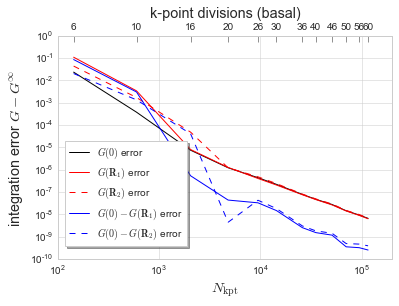
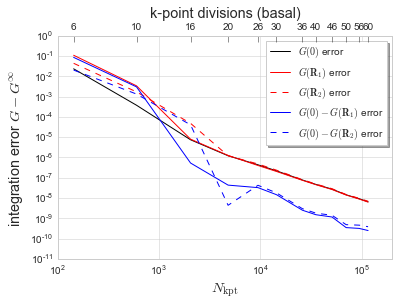
rebuilt docs

Changed region(s): [[0.0602, 0.1176, 0.9925, 0.8235], [0.0602, 0.8235, 0.1504, 0.8529], [0.0902, 0.1765, 0.1203, 0.2059]]

diff --git a/searchindex.js b/searchindex.js
@@ -1,1 +1,1 @@
-Search.setIndex({envversion:50,filenames:["examples/Fe-C","examples/GF-convergence","examples/LargeOmega2","index","notebooks"],objects:{},objnames:{},objtypes:{},terms:{"00000000e":2,"00239975e":2,"0714a":0,"0722a":0,"10x10x10":1,"10x10x6":1,"1200k":0,"12f":1,"14x14x14":1,"16e":2,"16x16x8":1,"18836296e":2,"18x18x18":1,"1e13":2,"1e17":2,"1e2":1,"1e3":0,"1e33":2,"1e8":2,"1e9":0,"20x20x12":1,"2202a":0,"22x22x22":1,"26x26x14":1,"26x26x26":1,"2757a":0,"2e5":1,"2v12":0,"2v44":0,"300k":0,"30x30x16":1,"30x30x30":1,"33910566e":2,"34x34x34":1,"3588e":0,"3681a":0,"36x36x20":1,"3v11":0,"40x40x22":1,"44186728e":2,"46x46x24":1,"50x50x28":1,"56x56x30":1,"57142857e":2,"60x60x32":1,"62729380e":2,"69665300e":2,"69817973e":2,"6x6x4":1,"6x6x6":1,"71428571e":2,"74647887e":2,"76223776e":2,"77777778e":2,"79249287e":2,"80068729e":2,"80341880e":2,"81196581e":2,"81332535e":2,"81383433e":2,"8145141885543301e":2,"8145141885543312e":2,"8145141885543323e":2,"81451419e":2,"81654377e":2,"81874935e":2,"83234718e":2,"86830524e":2,"break":[0,1,2],"function":[],"import":[0,1,2],"new":0,"switch":2,"true":[0,1,2],"while":0,about:0,abov:0,accur:2,acta:0,actamat:0,activ:0,activat:0,add:0,addbasi:0,adjac:[0,1,2],all:[0,2],almost:2,along:0,alpha:1,also:0,altern:2,alwai:2,ansi:[0,1,2],append:[0,1,2],approxim:1,argument:2,arrai:[0,1,2],assembl:0,atom:[0,2],attempt:0,automat:2,averag:[0,1],ax1:[0,1,2],ax2:[0,1,2],axi:[0,1],barrier:0,basal:1,base:0,basi:[0,1,2],bbox_to_anchor:[0,1,2],bcc:0,becaus:2,becom:2,becquart:0,begin:[0,1,2],behavior:1,below:4,beta:0,between:[0,1],big:2,bodi:0,boltzmann:0,bottom:2,c11:0,c12:0,c44:0,calcderiv:0,calcul:0,can:[0,2],carbon:0,cell:[0,1,2],center:0,chang:0,check:[1,2],chem:0,chemistri:1,clip_on:2,closest:0,clouet:0,cm2:0,code:0,coeffici:[3,4],color:2,commandchar:[0,1,2],comment:[0,1,2],compon:0,compress:0,comput:[0,3],concaten:2,configur:2,consider:1,constant:0,construct:0,content:3,contribut:2,contributor:3,control:1,converg:[],convert:0,coordin:[0,2],correl:[2,3,4],correl_list:2,correspond:0,creat:[0,1,2],crystal:[0,1,2,3],crystalstar:3,cubic:0,cutoff:0,d11_t:0,d11neg:0,d11po:0,data:[0,1],dbeta:0,dconv:0,ddlist:0,denom:1,denser:1,densiti:1,depend:2,determin:0,diag:0,diagon:2,dict:2,dictionari:2,diff:1,differ:[1,2],dipnam:0,dipol:0,dipoledict:0,dipolet:0,direct:[0,1],distanc:0,divis:1,dlist:0,document:3,doi:0,domain:0,don:2,dot:0,eact:0,eam:0,either:0,elastic:0,electron:0,elif:0,els:[0,2],empir:1,end:[0,1,2],energi:0,enes:2,enesv:2,enet0:2,enet1:2,enet2:2,enet:0,enev:2,entir:2,error:[1,2],etran:0,evalu:2,exactli:2,exampl:[2,4],extend:[0,1,2],extract:1,fail:2,failur:2,fals:[0,1,2],fcc:[1,2],fccdata:1,fccjn:1,fccr:1,fccsite:1,fec:0,fecdiffus:0,fecthermodict:0,fig:[0,1],fill:2,find:0,first:[0,1,2],fit:1,fontsiz:[0,1,2],forc:[0,1,2],format:[0,1,2],frameon:[0,1,2],frequenc:0,from:[0,1,2,4],g0val:1,g10:1,garnet:[3,4],gdata:1,gener:[0,1],get:0,get_xlim:[0,1],gfcalc:[1,3],gfcrystalcalc:1,gferror:1,gffcc:1,gfhcp:1,ginf:1,ginflist:1,gpa:0,gplot:1,gr1:1,gr1val:1,gr2:1,gr2val:1,green:[],grid:[0,1],grval:1,gval:1,have:0,hcp:1,hcpdata:1,hcpjn:1,hcpr1:1,hcpr2:1,hcpsite:1,how:2,identifi:0,includ:0,increas:[0,1],index:[0,3],indic:0,inf:2,infinit:1,infti:1,inlin:[0,1,2],input:4,integr:1,interact:1,interestingli:0,interstiti:[0,3],introduc:2,invlatt:0,isclos:0,isotrop:0,item:[0,2],iter:1,jump:[0,2],jumpnetwork:[0,1,2],jupyt:4,just:2,keep:2,kei:1,kpt:1,kptgrid:1,kwarg:2,label:[0,1,2],labelright:2,larg:0,large_om2:2,largeomega2:2,largest:1,lattic:[0,1,2],left:2,legend:[0,1,2],len:0,length:[0,1],lie:0,lij:2,limit:2,line:[0,1,2],linear:0,linspac:[0,2],list:0,log:[0,1,2],look:[0,1],loop:2,lss:2,lsv:2,make:2,maketracerpreen:2,match:[0,1,2],mater:0,mathbf:1,mathrm:1,matplotlib:[0,1,2],maximum:1,mediat:3,medium:1,mesh:1,modul:3,multipli:0,n10:1,name:0,nan:2,ncol:[0,1,2],neact:0,necessari:2,need:[0,1,2],neg:0,neighbor:[1,2],never:2,next:[0,2],nk53:1,nkpt:1,nmax:1,non:0,note:0,notebook:[],now:[0,2],nreduc:1,nthermo:2,num:2,numer:1,numpi:[0,1,2],nv_xxxx:0,nv_xxyi:0,nv_xyxi:0,obtain:0,octahedr:0,off:2,om2:2,om2_list:2,om2pow:2,omega0:2,omega1:2,omega2:2,omega:2,onli:[0,2],onsag:[0,1,2,4],onsagercalc:[0,2,3],originalverbatim:[0,1,2],our:[0,1,2],out:[0,2],output:[0,4],over:[0,2],page:3,para:0,paraindex:0,parallel:0,paramet:1,particular:1,pass:2,path:[0,1,2],pdf:[0,1,2],perez:0,perp:0,perpendicular:0,phase:0,physical_const:0,piec:0,plane:0,plot:[0,1,2],plt:[0,1,2],pmax:1,pmaxerror:1,pname:0,poct:0,poctpara:0,poctperp:0,point:[0,1],posit:0,potenti:0,powerexpans:3,ppara:0,pperp:0,pre:0,preene2betafre:2,prefactor:[0,1],pres:2,pressur:0,presv:2,pret0:2,pret1:2,pret2:2,pret:0,pretti:2,prev:2,print:[0,1,2],problemat:2,prod:1,ptet:0,ptetpara:0,ptetperp:0,put:1,pyplot:[0,1,2],python:3,rang:[0,1,2],refer:3,repeat:2,repres:0,respect:0,revers:1,right:2,roundoff:2,s11:0,s12:0,s44:0,savefig:[0,1,2],scale:1,scipi:0,seaborn:[0,1,2],search:3,see:1,separ:0,set:0,set_vis:2,set_xlabel:[0,1,2],set_xlim:[0,1,2],set_xscal:[1,2],set_xtick:[0,1],set_xticklabel:[0,1],set_ylabel:[0,1,2],set_ylim:2,set_yscal:[0,1],setrat:1,sever:4,shadow:[0,1,2],sharei:2,should:2,show:[0,1,2],sim:1,singl:0,sit:0,site:0,sitelist:[0,1,2],small:2,solut:2,sort:1,specif:2,spectacular:2,spheric:0,spine:2,sqrt:1,start:1,state:0,stensor:0,stress:0,stressconv:0,structur:[0,1],style:[0,1,2],subplot:[0,1,2],success:1,supercel:3,support:3,symmetr:0,tag:0,take:0,taken:0,tall:2,talpha:1,tautomat:2,tdict:2,temperatur:0,tensor:0,tensordot:0,term:0,tetrahedr:0,tginf:1,them:2,thermodynam:[1,2],thi:[0,1,2],those:1,three:2,through:[1,2],thu:0,thz:0,tick_left:2,tick_param:[0,1,2],tick_right:2,tlabel:0,tnkpt:1,tno:2,togeth:1,top:[0,1],total:0,toward:0,trace:0,tracer:[3,4],trang:0,transax:2,transform:2,transit:0,translat:0,transpar:[0,1,2],treatment:2,twini:[0,1],uncorrel:2,uniaxi:0,uniqu:0,unit:0,uoct:0,updat:2,v_xxxx:0,v_xxyi:0,v_xyxi:0,vacanc:[1,2,3],vacancymedi:2,valu:[0,1,2],vector:1,veiga:0,vlist:0,volt:0,volum:0,vsph:0,vstack:0,vtensor:0,vu0:0,wai:2,where:0,which:[0,1],whitegrid:[0,1,2],wyckoff:0,wyckoffpo:0,yaxi:2,zero:[0,1,2],zeros_lik:0,zip:[0,1]},titles:["Fe-C diffusion and elastodiffusivity","Convergence of Green function calculation","Large <span class=\"math\">\\(\\omega^2\\)</span> correction","Onsager: Automated diffusion calculation","Notebooks"],titleterms:{"function":1,autom:3,calcul:[1,3],converg:1,correct:2,diffus:[0,3],elastodiffus:0,green:1,indice:3,larg:2,notebook:4,onsager:3,tabl:3}})
+Search.setIndex({envversion:50,filenames:["examples/Fe-C","examples/GF-convergence","examples/LargeOmega2","index","notebooks"],objects:{},objnames:{},objtypes:{},terms:{"00000000e":2,"00239975e":2,"0714a":0,"0722a":0,"10x10x10":1,"10x10x6":1,"1200k":0,"12f":1,"14x14x14":1,"16e":2,"16x16x8":1,"18836296e":2,"18x18x18":1,"1e13":2,"1e17":2,"1e2":1,"1e3":0,"1e33":2,"1e8":2,"1e9":0,"20x20x12":1,"2202a":0,"22x22x22":1,"26x26x14":1,"26x26x26":1,"2757a":0,"2e5":1,"2v12":0,"2v44":0,"300k":0,"30x30x16":1,"30x30x30":1,"33910566e":2,"34x34x34":1,"3588e":0,"3681a":0,"36x36x20":1,"38x38x38":1,"3v11":0,"40x40x22":1,"42x42x42":1,"44186728e":2,"46x46x24":1,"46x46x46":1,"50x50x28":1,"50x50x50":1,"56x56x30":1,"57142857e":2,"60x60x32":1,"62729380e":2,"69665300e":2,"69817973e":2,"6x6x4":1,"6x6x6":1,"71428571e":2,"74647887e":2,"76223776e":2,"77777778e":2,"79249287e":2,"80068729e":2,"80341880e":2,"81196581e":2,"81332535e":2,"81383433e":2,"8145141885543301e":2,"8145141885543312e":2,"8145141885543323e":2,"81451419e":2,"81654377e":2,"81874935e":2,"83234718e":2,"86830524e":2,"break":[0,1,2],"function":[],"import":[0,1,2],"new":0,"switch":2,"true":[0,1,2],"while":0,about:0,abov:0,accur:2,acta:0,actamat:0,activ:0,activat:0,add:0,addbasi:0,adjac:[0,1,2],all:[0,2],almost:2,along:0,alpha:1,also:0,altern:2,alwai:2,ansi:[0,1,2],append:[0,1,2],approxim:1,argument:2,arrai:[0,1,2],assembl:0,atom:[0,2],attempt:0,automat:2,averag:[0,1],ax1:[0,1,2],ax2:[0,1,2],axi:[0,1],barrier:0,basal:1,base:0,basi:[0,1,2],bbox_to_anchor:[0,1,2],bcc:0,becaus:2,becom:2,becquart:0,begin:[0,1,2],behavior:1,below:4,beta:0,between:[0,1],big:2,bodi:0,boltzmann:0,bottom:2,c11:0,c12:0,c44:0,calcderiv:0,calcul:0,can:[0,2],carbon:0,cell:[0,1,2],center:0,chang:0,check:[1,2],chem:0,chemistri:1,clip_on:2,closest:0,clouet:0,cm2:0,code:0,coeffici:[3,4],color:2,commandchar:[0,1,2],comment:[0,1,2],compon:0,compress:0,comput:[0,3],concaten:2,configur:2,consider:1,constant:0,construct:0,content:3,contribut:2,contributor:3,control:1,converg:[],convert:0,coordin:[0,2],correl:[2,3,4],correl_list:2,correspond:0,creat:[0,1,2],crystal:[0,1,2,3],crystalstar:3,cubic:0,cutoff:0,d11_t:0,d11neg:0,d11po:0,data:[0,1],dbeta:0,dconv:0,ddlist:0,denom:1,denser:1,densiti:1,depend:2,determin:0,diag:0,diagon:2,dict:2,dictionari:2,diff:1,differ:[1,2],dipnam:0,dipol:0,dipoledict:0,dipolet:0,direct:[0,1],distanc:0,divis:1,dlist:0,document:3,doi:0,domain:0,don:2,dot:0,eact:0,eam:0,either:0,elastic:0,electron:0,elif:0,els:[0,2],empir:1,end:[0,1,2],energi:0,enes:2,enesv:2,enet0:2,enet1:2,enet2:2,enet:0,enev:2,entir:2,error:[1,2],etran:0,evalu:2,exactli:2,exampl:[2,4],extend:[0,1,2],extract:1,fail:2,failur:2,fals:[0,1,2],fcc:[1,2],fccdata:1,fccjn:1,fccr:1,fccsite:1,fec:0,fecdiffus:0,fecthermodict:0,fig:[0,1],fill:2,find:0,first:[0,1,2],fit:1,fontsiz:[0,1,2],forc:[0,1,2],format:[0,1,2],frameon:[0,1,2],frequenc:0,from:[0,1,2,4],g0val:1,g10:1,garnet:[3,4],gdata:1,gener:[0,1],get:0,get_xlim:[0,1],gfcalc:[1,3],gfcrystalcalc:1,gferror:1,gffcc:1,gfhcp:1,ginf:1,ginflist:1,gpa:0,gplot:1,gr1:1,gr1val:1,gr2:1,gr2val:1,green:[],grid:[0,1],grval:1,gval:1,have:0,hcp:1,hcpdata:1,hcpjn:1,hcpr1:1,hcpr2:1,hcpsite:1,how:2,identifi:0,includ:0,increas:[0,1],index:[0,3],indic:0,inf:2,infinit:1,infti:1,inlin:[0,1,2],input:4,integr:1,interact:1,interestingli:0,interstiti:[0,3],introduc:2,invlatt:0,isclos:0,isotrop:0,item:[0,2],iter:1,jump:[0,2],jumpnetwork:[0,1,2],jupyt:4,just:2,keep:2,kei:1,kpt:1,kptgrid:1,kwarg:2,label:[0,1,2],labelright:2,larg:0,large_om2:2,largeomega2:2,largest:1,lattic:[0,1,2],left:2,legend:[0,1,2],len:0,length:[0,1],lie:0,lij:2,limit:2,line:[0,1,2],linear:0,linspac:[0,2],list:0,log:[0,1,2],look:[0,1],loop:2,lss:2,lsv:2,make:2,maketracerpreen:2,match:[0,1,2],mater:0,mathbf:1,mathrm:1,matplotlib:[0,1,2],maximum:1,mediat:3,medium:1,mesh:1,modul:3,multipli:0,n10:1,name:0,nan:2,ncol:[0,1,2],neact:0,necessari:2,need:[0,1,2],neg:0,neighbor:[1,2],never:2,next:[0,2],nk53:1,nkpt:1,nmax:1,non:0,note:0,notebook:[],now:[0,2],nreduc:1,nthermo:2,num:2,numer:1,numpi:[0,1,2],nv_xxxx:0,nv_xxyi:0,nv_xyxi:0,obtain:0,octahedr:0,off:2,om2:2,om2_list:2,om2pow:2,omega0:2,omega1:2,omega2:2,omega:2,onli:[0,2],onsag:[0,1,2,4],onsagercalc:[0,2,3],originalverbatim:[0,1,2],our:[0,1,2],out:[0,2],output:[0,4],over:[0,2],page:3,para:0,paraindex:0,parallel:0,paramet:1,particular:1,pass:2,path:[0,1,2],pdf:[0,1,2],perez:0,perp:0,perpendicular:0,phase:0,physical_const:0,piec:0,plane:0,plot:[0,1,2],plt:[0,1,2],pmax:1,pmaxerror:1,pname:0,poct:0,poctpara:0,poctperp:0,point:[0,1],posit:0,potenti:0,powerexpans:3,ppara:0,pperp:0,pre:0,preene2betafre:2,prefactor:[0,1],pres:2,pressur:0,presv:2,pret0:2,pret1:2,pret2:2,pret:0,pretti:2,prev:2,print:[0,1,2],problemat:2,prod:1,ptet:0,ptetpara:0,ptetperp:0,put:1,pyplot:[0,1,2],python:3,rang:[0,1,2],refer:3,repeat:2,repres:0,respect:0,revers:1,right:2,roundoff:2,s11:0,s12:0,s44:0,savefig:[0,1,2],scale:1,scipi:0,seaborn:[0,1,2],search:3,see:1,separ:0,set:0,set_vis:2,set_xlabel:[0,1,2],set_xlim:[0,1,2],set_xscal:[1,2],set_xtick:[0,1],set_xticklabel:[0,1],set_ylabel:[0,1,2],set_ylim:[1,2],set_yscal:[0,1],setrat:1,sever:4,shadow:[0,1,2],sharei:2,should:2,show:[0,1,2],sim:1,singl:0,sit:0,site:0,sitelist:[0,1,2],small:2,solut:2,sort:1,specif:2,spectacular:2,spheric:0,spine:2,sqrt:1,start:1,state:0,stensor:0,stress:0,stressconv:0,structur:[0,1],style:[0,1,2],subplot:[0,1,2],success:1,supercel:3,support:3,symmetr:0,tag:0,take:0,taken:0,tall:2,talpha:1,tautomat:2,tdict:2,temperatur:0,tensor:0,tensordot:0,term:0,tetrahedr:0,tginf:1,them:2,thermodynam:[1,2],thi:[0,1,2],those:1,three:2,through:[1,2],thu:0,thz:0,tick_left:2,tick_param:[0,1,2],tick_right:2,tlabel:0,tnkpt:1,tno:2,togeth:1,top:[0,1],total:0,toward:0,trace:0,tracer:[3,4],trang:0,transax:2,transform:2,transit:0,translat:0,transpar:[0,1,2],treatment:2,twini:[0,1],uncorrel:2,uniaxi:0,uniqu:0,unit:0,uoct:0,updat:2,v_xxxx:0,v_xxyi:0,v_xyxi:0,vacanc:[1,2,3],vacancymedi:2,valu:[0,1,2],vector:1,veiga:0,vlist:0,volt:0,volum:0,vsph:0,vstack:0,vtensor:0,vu0:0,wai:2,where:0,which:[0,1],whitegrid:[0,1,2],wyckoff:0,wyckoffpo:0,yaxi:2,zero:[0,1,2],zeros_lik:0,zip:[0,1]},titles:["Fe-C diffusion and elastodiffusivity","Convergence of Green function calculation","Large <span class=\"math\">\\(\\omega^2\\)</span> correction","Onsager: Automated diffusion calculation","Notebooks"],titleterms:{"function":1,autom:3,calcul:[1,3],converg:1,correct:2,diffus:[0,3],elastodiffus:0,green:1,indice:3,larg:2,notebook:4,onsager:3,tabl:3}})

diff --git a/examples/GF-convergence.html b/examples/GF-convergence.html
@@ -418,7 +418,7 @@ meshes.</p>
 <div class="highlight-ipython3"><div class="highlight"><pre>
 <span></span>FCCdata = {pmaxerror:[] for pmaxerror in range(-16,0)}
 print(&#39;kpt\tNkpt\tG(0)\tG(R)\tG diff&#39;)
-for Nmax in range(1,9):
+for Nmax in range(1,13):
     GFFCC = GFcalc.GFCrystalcalc(FCC, 0, FCCsite, FCCjn, Nmax=Nmax)
     Nreduce, Nkpt, kpt = GFFCC.Nkpt, np.prod(GFFCC.kptgrid), GFFCC.kptgrid
     for pmax in sorted(FCCdata.keys(), reverse=True):
@@ -441,11 +441,15 @@ kpt     Nkpt    G(0)    G(R)    G diff
 6x6x6      216 (16)     -1.344901582401 -0.119888361621 -1.225013220779
 10x10x10          1000 (48)     -1.344674624975 -0.084566077531 -1.260108547444
 14x14x14          2744 (106)    -1.344663672542 -0.084541308263 -1.260122364278
-18x18x18          5832 (200)    -1.344661890661 -0.084539383601 -1.260122507060
-22x22x22         10648 (337)    -1.344661442418 -0.084538941204 -1.260122501213
-26x26x26         17576 (528)    -1.344661295591 -0.084538798573 -1.260122497018
-30x30x30         27000 (778)    -1.344661238153 -0.084538742761 -1.260122495392
-34x34x34         39304 (1095)   -1.344661212587 -0.084538717850 -1.260122494737
+18x18x18          5832 (201)    -1.344661890661 -0.084539383601 -1.260122507061
+22x22x22         10648 (341)    -1.344661442403 -0.084538941208 -1.260122501195
+26x26x26         17576 (528)    -1.344661295590 -0.084538798573 -1.260122497018
+30x30x30         27000 (777)    -1.344661238153 -0.084538742761 -1.260122495392
+34x34x34         39304 (1094)   -1.344661212587 -0.084538717850 -1.260122494737
+38x38x38         54872 (1488)   -1.344661200054 -0.084538705591 -1.260122494464
+42x42x42         74088 (1971)   -1.344661193423 -0.084538699082 -1.260122494341
+46x46x46         97336 (2547)   -1.344661189691 -0.084538695410 -1.260122494281
+50x50x50         125000 (3222)  -1.344661187483 -0.084538693232 -1.260122494251
 </pre></div></div>
 </div>
 <div class="nbinput container">
@@ -520,22 +524,22 @@ for pmax in sorted(FCCdata.keys(), reverse=True):
 <div class="container">
 <div class="highlight"><pre>
 pmax    Ginf    alpha (Nkpt^-5/3 prefactor)
--1      -1.3622431228203618     107.68032003382153
--2      -1.3452258994701751     12.629186631942448
--3      -1.3446884353187338     2.082017161988394
--4      -1.3446627918154508     1.0633204684019726
--5      -1.344661290378736      1.0462291512843422
--6      -1.3446611905262338     1.141759242474714
--7      -1.3446611825889647     1.2677586253657989
--8      -1.344661179858607      1.4411728744285202
--9      -1.3446611749706008     1.6992758893513724
--10     -1.3446611661040953     2.084685390450087
--11     -1.344661151936757      2.6380532642193937
--12     -1.3446611313776884     3.3938198836995825
--13     -1.344661103589501      4.378495907854502
--14     -1.3446610679820363     5.610776772035542
--15     -1.3446610241750612     7.102718725591083
--16     -1.3446609719473421     8.861351881915382
+-1      -1.3622381890789426     126.67614232856941
+-2      -1.345225234069008      16.789604252572925
+-3      -1.3446883609506095     2.5257576431627555
+-4      -1.344662783896984      1.0989787093928518
+-5      -1.3446612897581471     1.0453810565295385
+-6      -1.3446611908377897     1.1366972814517313
+-7      -1.3446611836378024     1.2545915973689081
+-8      -1.3446611828712731     1.4038756579806484
+-9      -1.344661182337632      1.608186921165577
+-10     -1.3446611814380418     1.8951448537999165
+-11     -1.344661180005655      2.291135980573609
+-12     -1.3446611779274202     2.8185182806123508
+-13     -1.3446611751184294     3.4945030859983652
+-14     -1.3446611715189616     4.331229854988949
+-15     -1.3446611670905142     5.336529960337354
+-16     -1.3446611618106175     6.514974709092111
 </pre></div></div>
 </div>
 <p>Plot the error in the Green function for FCC (at 0, maximum R, and
@@ -568,6 +572,8 @@ fig, ax1 = plt.subplots()
 ax1.plot(Nk, gplot[0], &#39;k&#39;, label=&#39;$G(\mathbf{0})$ error $\sim N_{\mathrm{kpt}}^{-5/3}$&#39;)
 ax1.plot(Nk, gplot[1], &#39;r&#39;, label=&#39;$G(\mathbf{R})$ error $\sim N_{\mathrm{kpt}}^{-5/3}$&#39;)
 ax1.plot(Nk, gplot[2], &#39;b&#39;, label=&#39;$G(\mathbf{0})-G(\mathbf{R})$ error&#39;)
+ax1.set_xlim((1e2,2e5))
+ax1.set_ylim((1e-11,1))
 ax1.set_xscale(&#39;log&#39;)
 ax1.set_yscale(&#39;log&#39;)
 ax1.set_xlabel(&#39;$N_{\mathrm{kpt}}$&#39;, fontsize=&#39;x-large&#39;)
@@ -625,11 +631,12 @@ ax1.plot(Nk, gplot[2], &#39;r--&#39;, label=&#39;$G(\mathbf{R}_2)$ error&#39;)
 ax1.plot(Nk, gplot[3], &#39;b&#39;, label=&#39;$G(\mathbf{0})-G(\mathbf{R}_1)$ error&#39;)
 ax1.plot(Nk, gplot[4], &#39;b--&#39;, label=&#39;$G(\mathbf{0})-G(\mathbf{R}_2)$ error&#39;)
 ax1.set_xlim((1e2,2e5))
+ax1.set_ylim((1e-11,1))
 ax1.set_xscale(&#39;log&#39;)
 ax1.set_yscale(&#39;log&#39;)
 ax1.set_xlabel(&#39;$N_{\mathrm{kpt}}$&#39;, fontsize=&#39;x-large&#39;)
 ax1.set_ylabel(&#39;integration error $G-G^\infty$&#39;, fontsize=&#39;x-large&#39;)
-ax1.legend(bbox_to_anchor=(0.1,0.05,0.3,0.5), ncol=1,
+ax1.legend(bbox_to_anchor=(0.6,0.6,0.4,0.4), ncol=1,
            shadow=True, frameon=True, fontsize=&#39;medium&#39;)
 ax2 = ax1.twiny()
 ax2.set_xscale(&#39;log&#39;)
